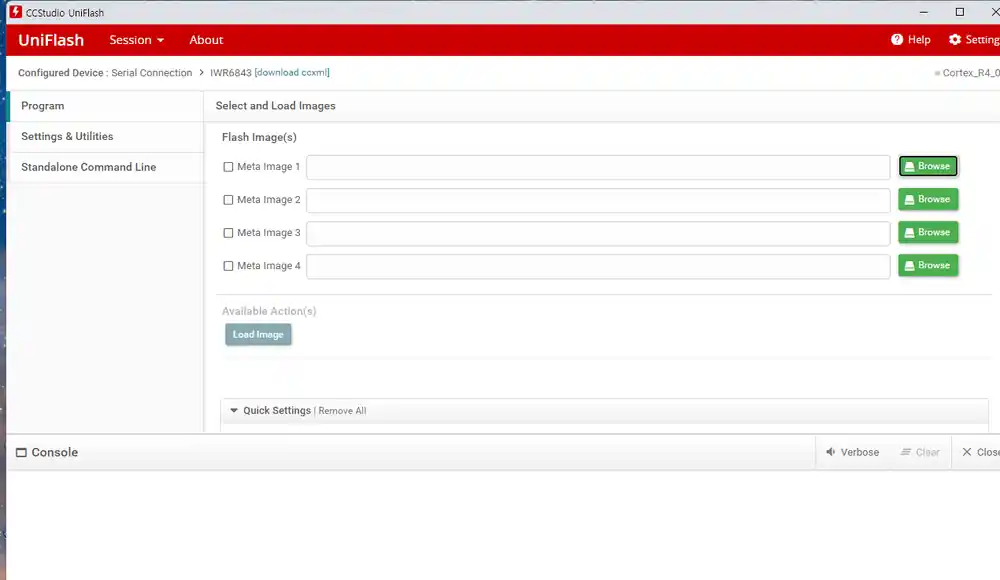
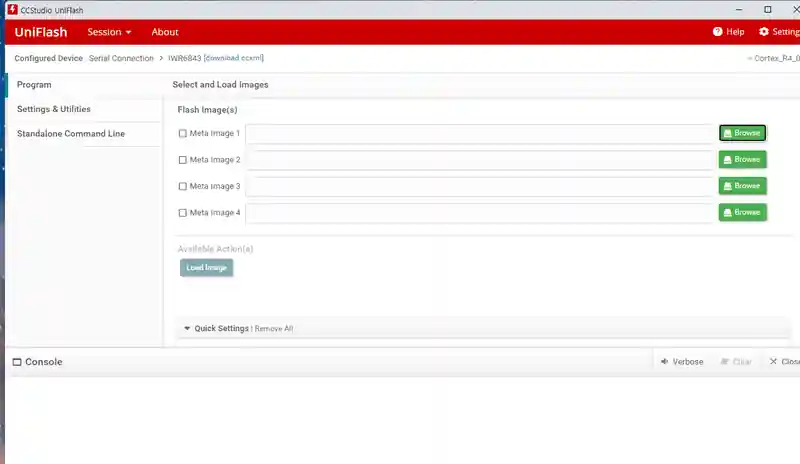
feat(blog): extend DCA debug gallery

diff --git a/project-archives/mmwave-visualizer/README.md b/project-archives/mmwave-visualizer/README.md
@@ -89,15 +89,20 @@ The complete screen sequence is published in the existing DCA1000 article:
   `wireshark-dca-bidirectional-udp.webp`, `wireshark-dca-return-udp-detail.webp`,
   `wireshark-dca-response-filter.webp`, `wireshark-udp-ssdp-only.webp`,
   `wireshark-dca-arp-udp-session.webp`, `windows-static-ip-setup.webp`,
+  `wireshark-dca-udp-arp-session-repeat.webp`, `windows-ipconfig-static-ip.webp`,
   `wireshark-background-udp-traffic.webp`, and
   `wireshark-control-vs-background.webp`.
-- UniFlash: `uniflash-program-page.webp` and `uniflash-program-success.webp`.
+- UniFlash and setup wizard: `matlab-hardware-setup-flash-failed.webp`,
+  `uniflash-program-page.webp`, and `uniflash-program-success.webp`.
 - Tera Term: `teraterm-cli-command-error.webp`,
   `teraterm-cli-prompt-error.webp`, and `teraterm-serial-character-stream.png`.
 - MATLAB and capture result: `matlab-no-binary-files-error.webp`,
   `matlab-record-location-error.webp`, `matlab-configure-radar-error.webp`, and
   `dca1000-zero-packet-log.webp`.
-- mmWave Studio: `mmwave-studio-serial-disconnected.webp`,
+- mmWave Studio: `radar-studio-rstdxml-exception.webp`,
+  `mmwave-studio-matlab-runtime-not-installed.webp`,
+  `mmwave-studio-serial-disconnected.webp`,
+  `mmwave-studio-device-zero-overview.webp`, `rfdata-capture-card-settings.webp`,
   `mmwave-studio-readregister-error.webp`, and
   `mmwave-studio-matlab-engine-error.webp`.
 - Configuration reference: `dca1000-mode-switch-guide.webp`.

diff --git a/src/_posts/2026-09-09-dca1000evm-troubleshooting-data-path-en.md b/src/_posts/2026-09-09-dca1000evm-troubleshooting-data-path-en.md
@@ -37,6 +37,7 @@ draft: false
 revision_history:
   - { date: 2026-09-09, change: "Written from hardware photos, mmWave Studio status screens, and portfolio pages 15-16" }
   - { date: 2026-09-09, change: "Added Wireshark, UniFlash, Tera Term, and zero-packet capture screens as staged debugging evidence" }
+  - { date: 2026-09-09, change: "Placed all 33 unique debugging screens, including runtime, ipconfig, RFDataCaptureCard, and Flash Binary states" }
 toc:
   - { id: symptom, title: Missing data and board heating }
   - { id: paths, title: Data and control paths }
@@ -58,6 +59,10 @@ capture log counted zero received packets and the board also heated up. Changing
 code first would have mixed configuration faults with physical faults. I preserved
 the observed state, then traced the sample path separately from the path that
 brings the devices into capture mode.
+
+Two byte-identical duplicate files are shown once each; all 33 distinct debugging
+screens are placed directly in the staged narrative below. Each screen opens at
+full size when selected.
 
 <figure><img src="{{ '/assets/images/projects/mmwave-visualizer/dca1000-setup.webp' | relative_url }}" alt="IWR6843ISK mounted on a DCA1000EVM with power, USB, and board-to-board connections" width="1200" height="1200"><figcaption>The IWR6843ISK, DCA1000EVM, power, USB, and inter-board connections in one view.</figcaption></figure>
 
